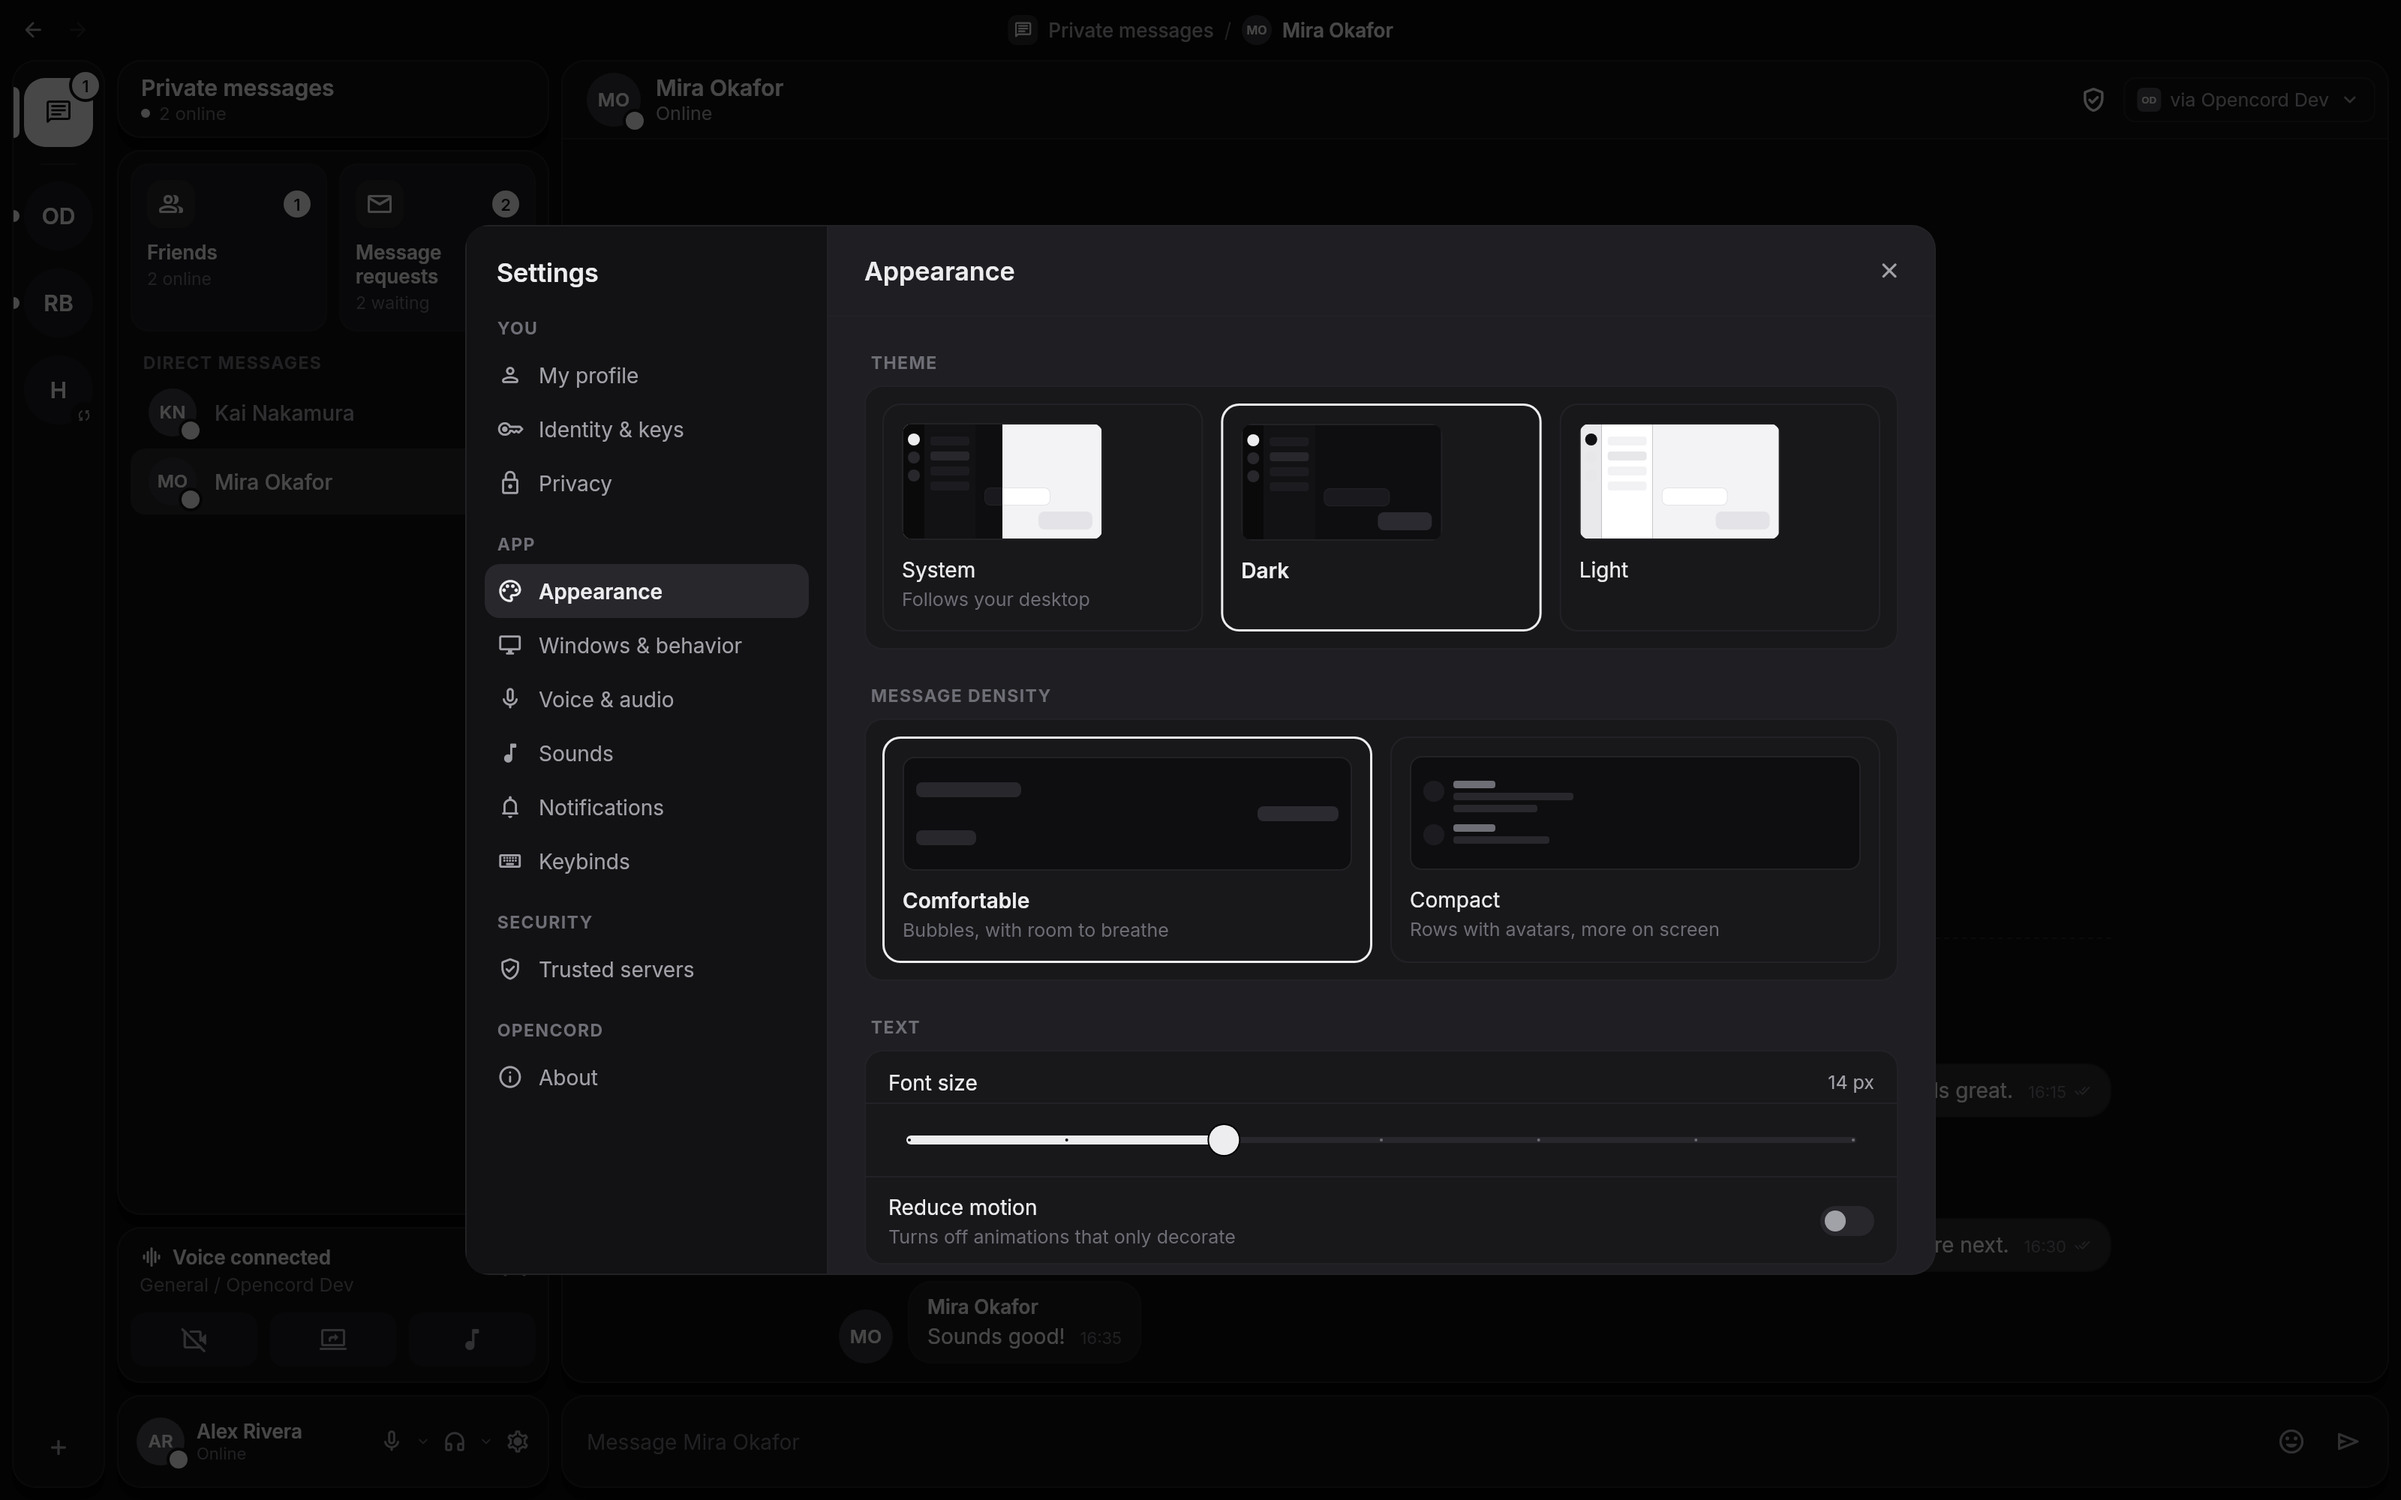
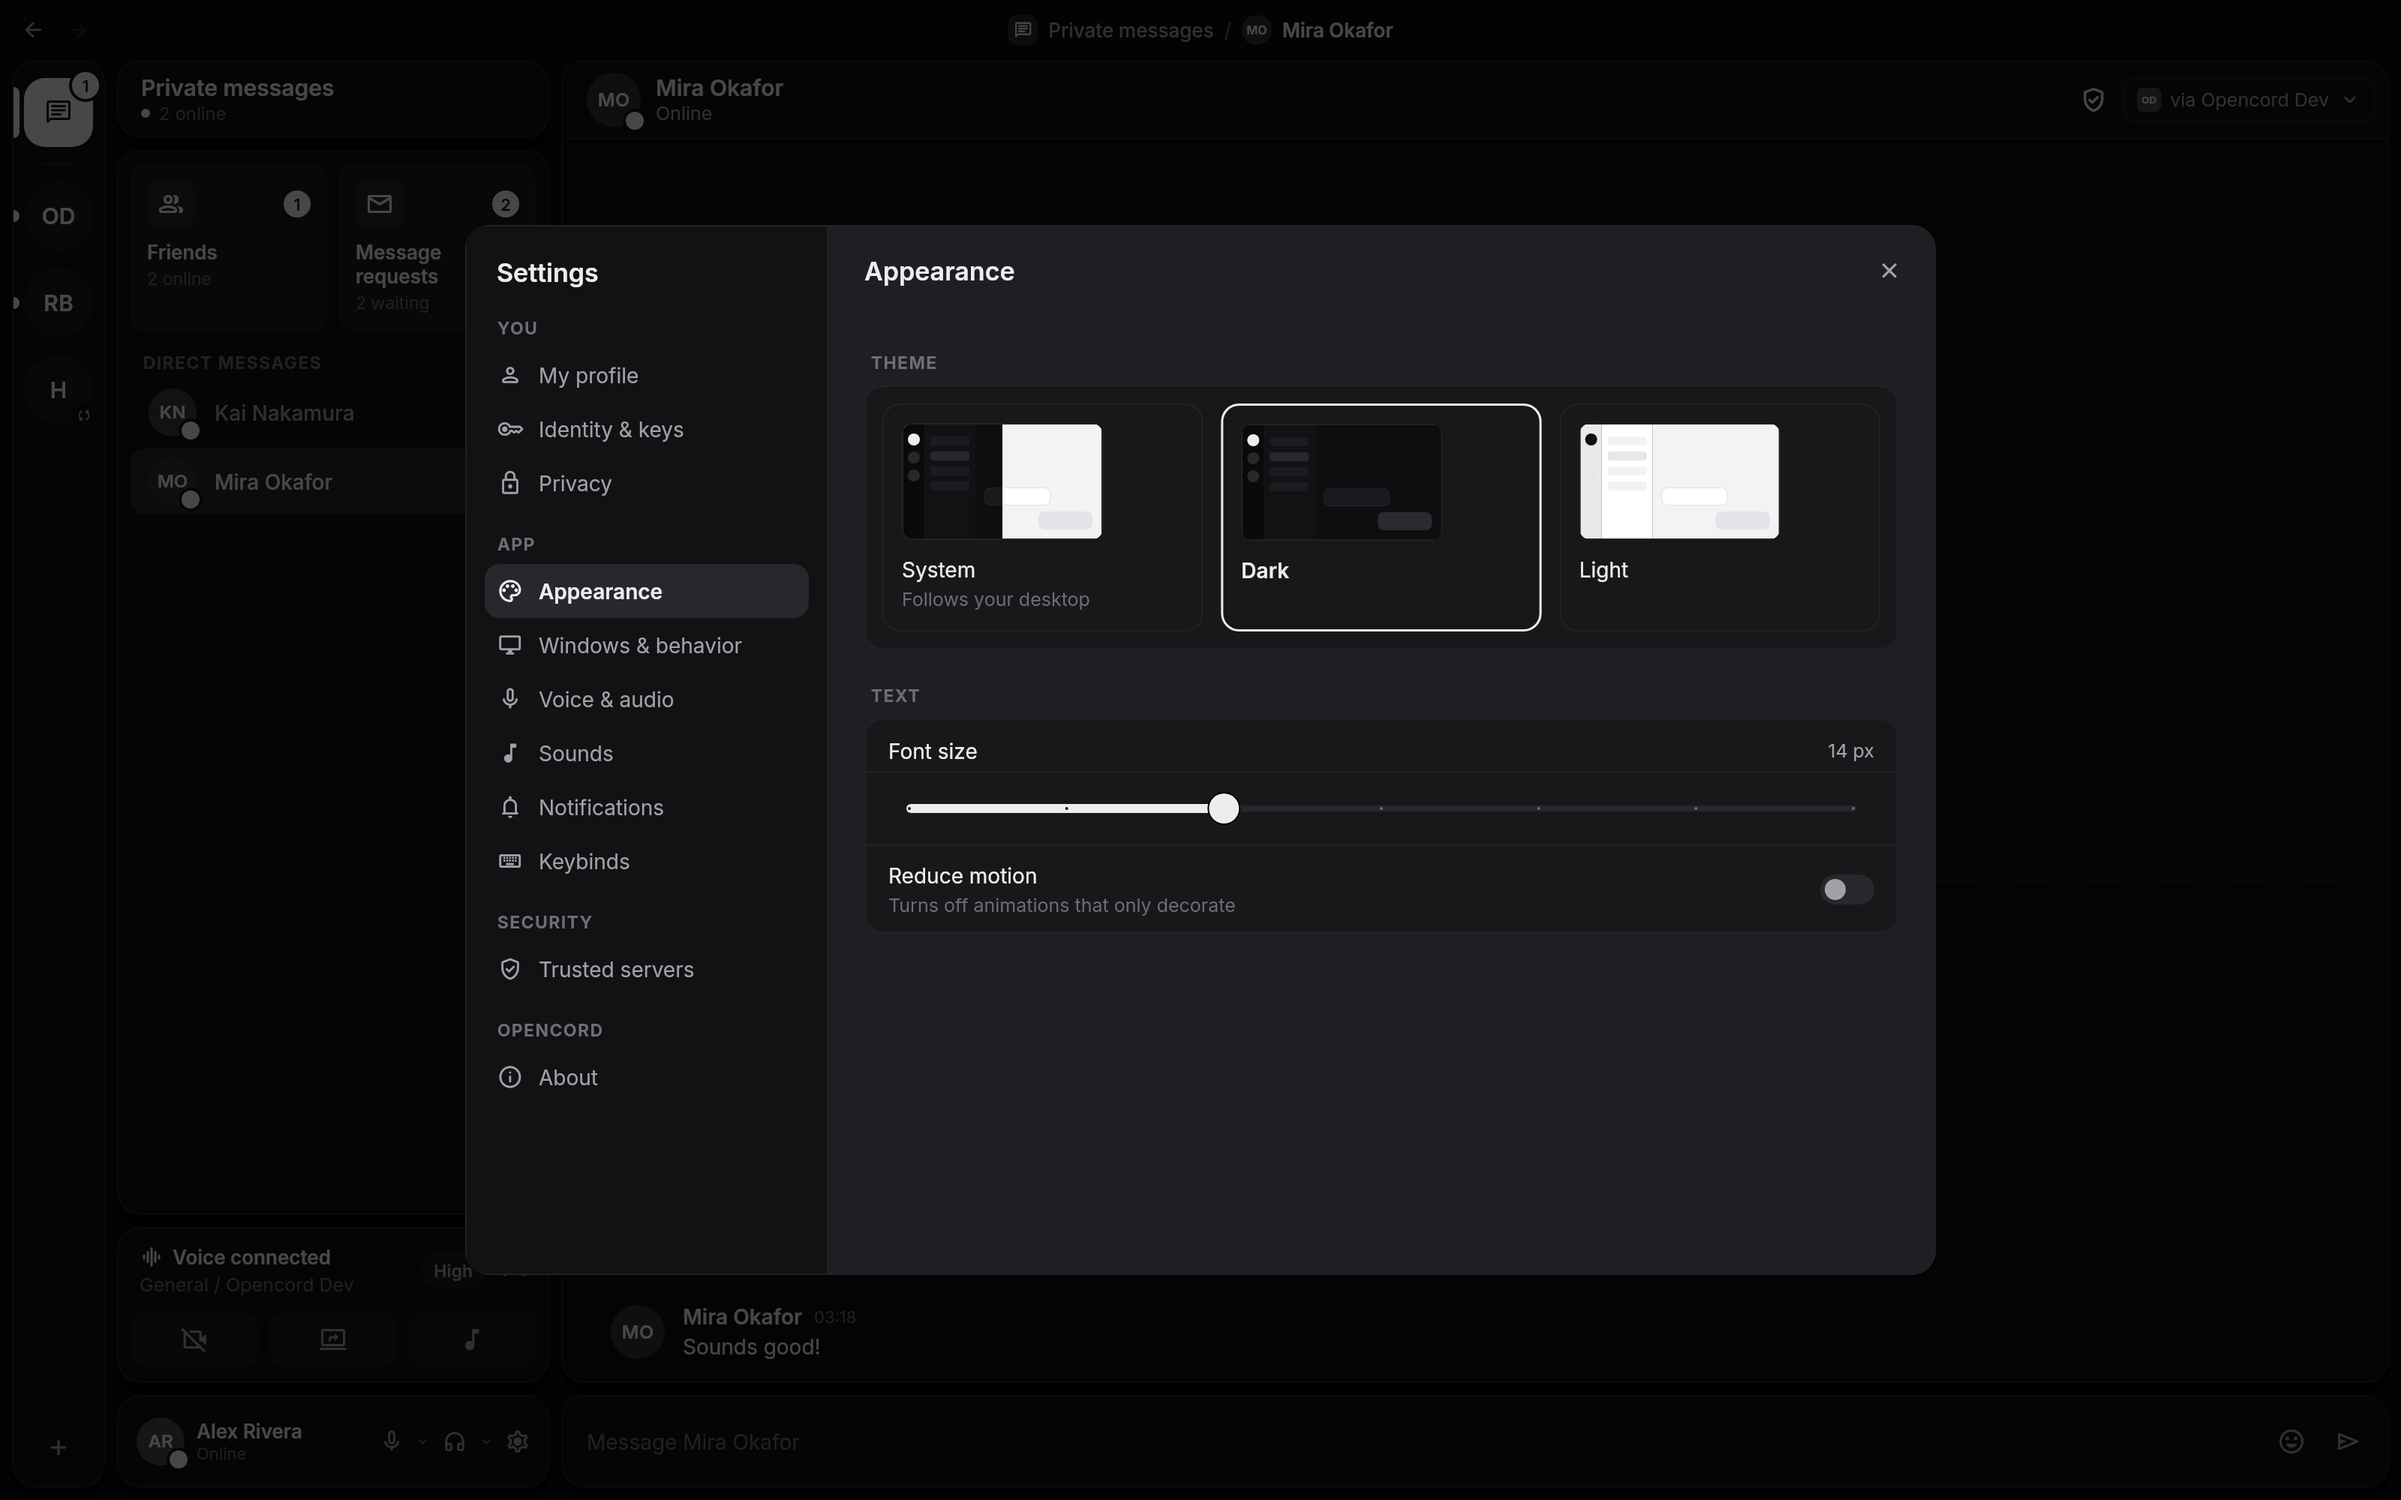
docs: what followed the floating UI

diff --git a/docs/plans/desktop-ui.md b/docs/plans/desktop-ui.md
@@ -393,13 +393,13 @@ One dialog shell for both user and server settings, styled like Telegram's setti
 - Right: page title bar (60 px) with a close button, content scrolls, 24 px padding. Content is built from `SettingsSection` blocks (bordered, radius 12, rows separated by 1 px dividers).
 
 ### 8.1 User settings
-- **My profile:** avatar (upload later), display name, presence selector as choice cards.
+- **My profile:** avatar (upload later), display name, presence selector as choice cards (**Online · Idle · Do not disturb**; Invisible was removed in follow-ups).
 - **Identity & keys:** public key fingerprint (mono, grouped), Copy public key, Export identity backup, Import identity, plain warning text about keeping the backup private.
-- **Appearance:** theme choice cards **System · Dark · Light** (each card shows a miniature of the layout in that theme), message density (Comfortable / Compact — compact removes bubbles and lays messages out as Discord does: the avatar, name, role and time over a group's first message, the time beside later ones while hovered, the hovered row highlighted; still monochrome), font size slider (12–18), reduce motion switch.
+- **Appearance:** theme choice cards **System · Dark · Light** (each card shows a miniature of the layout in that theme), font size slider (12–18), reduce motion switch (bubbles and message density choice were removed in follow-ups; compact mode is the sole message style).
 - **Windows & behavior** (desktop only): close button minimizes to tray (on by default on Windows and Linux, off on macOS), start minimized, launch at login, restore last window position.
-- **Voice & audio**, **Video**, **Screen share**, **Sounds** and **Voice diagnostics:** full specification in §17.
+- **Voice & audio**, **Video**, **Screen share**, **Sounds** and **Voice diagnostics:** full specification in §17. Voice & audio includes the Microphone test section with note, live level meter, and Test button.
 - **Notifications:** desktop notifications, mentions only, message sound, flash taskbar.
-- **Keybinds:** the table from §7.
+- **Keybinds:** rebindable global and in-app shortcuts with keyboard keys and mouse buttons (Mouse 3, Mouse 4, Mouse 5) for Push to talk, Priority speaker, Toggle mute, Toggle deafen, Toggle push-to-talk, Toggle music mute.
 - **Trusted servers:** list of servers with address and pinned fingerprint, "Forget" action.
 - **About:** version, license, links. On desktop, **Logs** (D82, docs/logs.md): export this session's log, export the last session's when it ended unexpectedly, open the logs folder.
 
@@ -541,7 +541,7 @@ Make the app feel native on each desktop, not like a web page in a window:
 - **Drag and drop:** reorder servers in the rail, channels and categories in the sidebar (with permission), roles in settings; dropped files on the chat show a "Attachments are coming later" overlay for now.
 - **Context everywhere:** every object (server, channel, message, member, role, invite) has a right-click menu with Copy ID/link at the bottom, so power users never need to dig.
 - **Small details:** hovering a timestamp shows the full date and time; clicking an avatar or name opens the profile; clicking a `#channel` link opens it; the window title, tray and badges always agree on unread counts; long names truncate with ellipsis and show the full name in a tooltip.
-- **Density:** a Compact mode (§8.1) for people who want more messages on screen, and a comfortable default that matches Telegram.
+- **Compact message style:** compact mode (§8.1) is the standard style as Discord has it, maximizing readability on desktop without bubble clutter.
 - **First run:** after onboarding, an empty state that explains the two ways in (join with an invite, or host your own server with a link to the docs) instead of an empty window.
 
 ---

diff --git a/docs/superpowers/specs/2026-11-04-floating-ui-design.md b/docs/superpowers/specs/2026-11-04-floating-ui-design.md
@@ -286,6 +286,8 @@ Each part names the widget that becomes it. A number here replaces the widget's 
 
 ### 5.5 Voice card (`VoiceConnectedPanel`)
 
+> See follow-ups spec (`2026-11-05-floating-ui-followups-design.md` §8): noise suppression chip and popover added to the first row left of Disconnect.
+
 - A float of its own, shown only in voice. Padding `8 8 10`, gap `8`.
 - **Line:** gap `6`. The clickable part: padding `2 6`, radius `8`, hover `hover`; above, the connection icon at 16 then `Voice connected` 13/600 (`6` apart); below, `1` under, `General / Opencord Dev` 12.5 `textMuted`. Disconnect: compact button, icon 20.
 - **Toggles:** equal widths, `8` apart, height `36`, radius `10`, background `hover`, icon 20 `textSecondary`; hover `selected`/`text`; on `accent`/`onAccent`.
@@ -299,6 +301,8 @@ Each part names the widget that becomes it. A number here replaces the widget's 
 - The cog still opens User settings. The prototype's small theme menu there was only for trying themes.
 
 ### 5.7 Splitter (`ShellSplitter`, new)
+
+> See follow-ups spec (`2026-11-05-floating-ui-followups-design.md` §2): a second splitter was added for the right pane, resizing live between 240 and 480.
 
 - In the `8` gap between the left column and main, inline layouts only. Hit area: the gap plus `4` on each side. Cursor: resize column.
 - **Drag** changes the left column's width live, with no animation: minimum `232`, maximum `min(420, window − 62 − 4·gap − side − 380)`. If the window or the pane shrinks past the maximum, the column follows on `pane`, and returns to the chosen width when there's room.
@@ -358,7 +362,7 @@ Each part names the widget that becomes it. A number here replaces the widget's 
 - **Reactions:** `5` under, `4` apart, height `24`, padding `0 8`, radius `12`, background `selected`, 12.5/500; own inverted.
 - **Unread line:** margin `6 0`, gap `12`, 12.5/600 `textSecondary`, lines `selected`.
 - **System pill:** padding `3 10`, radius `12`, background `hover`, 12.5 `textSecondary`, gap `6`, icon 16.
-- The compact message style stays as it is.
+> See follow-ups spec (`2026-11-05-floating-ui-followups-design.md` §4): bubble mode was removed, and compact mode is now the sole message style.
 
 ### 5.12 Composer float (`ComposerFrame`)
 
@@ -367,6 +371,8 @@ Each part names the widget that becomes it. A number here replaces the widget's 
 - The private composer and every bar that takes its place (`RequestBar`, blocked, no shared server, not reachable, no connected server) are floats in the same spot, the same way.
 
 ### 5.13 Side slot (`SideSlot`, new; `MemberPanel`, `MusicPanel`)
+
+> See follow-ups spec (`2026-11-05-floating-ui-followups-design.md` §2): right pane width can be resized live between 240 and 480, default 264 (People) / 340 (Music).
 
 - A float, `264` or `340` wide, full height. The width changes on `pane` when opening or growing, on `paneOut` when closing.
 - **Content keeps its width while the slot opens**, so it slides in from behind the window's edge rather than being squeezed.

diff --git a/docs/plans/check-macos.md b/docs/plans/check-macos.md
@@ -311,7 +311,12 @@ Nothing in these is macOS code. A short pass is enough; also try trackpad scroll
 - [ ] **Video and screen share:** A real video and a real screen share through focus mode (click to focus, strip underneath) and back.
 - [ ] **Two-person call with dock:** In a call, voice dock appears on mouse movement over the stage, auto-hides after 2.5 s of inactivity or pointer departure, and never hides while hovering the dock or with popups/menus open.
 
-## 12. Report
+## 12. Floating UI follow-ups hand checks (`feat/floating-ui-followups`)
+
+- [ ] **Mouse keybinds:** macOS, in another app; hold to talk; macOS Input Monitoring prompt covering the mouse.
+- [ ] **The test:** On headphones and on speakers, in and out of a call; a second person confirms they hear nothing; push to talk.
+
+## 13. Report
 
 - Post the ticked list in the batch's thread, with the failures, screenshots and session logs.
 - The building work (§5, §6.2) and fixes for macOS-only problems go in pull requests from a branch off the one under test, into `beta` (see the top of this file). Name the step each one is for.

diff --git a/docs/plans/check-windows-by-hand.md b/docs/plans/check-windows-by-hand.md
@@ -601,3 +601,11 @@ to drive them. They need the batch merged:
 - [ ] **Mouse side buttons:** Mouse button 4 (back) and button 5 (forward) navigate channel history.
 - [ ] **Video and screen share:** A real video and a real screen share transition through focus mode (click to focus, strip underneath) and return to grid.
 - [ ] **Two-person call with dock hiding:** In a call, voice dock appears on mouse movement over the stage, auto-hides after 2.5 s of inactivity or pointer departure, and never hides while hovering the dock or with popups/menus open.
+
+---
+
+# §10 Floating UI follow-ups hand checks (`feat/floating-ui-followups`)
+
+- [ ] **Mouse keybinds:** Windows and X11, in another app; hold to talk; that the mouse doesn't lag on Windows.
+- [ ] **Wayland (Linux):** The footer shows in Keybinds settings, and mouse keybinds work while focused.
+- [ ] **The test:** On headphones and on speakers, in and out of a call; a second person confirms they hear nothing; push to talk.
